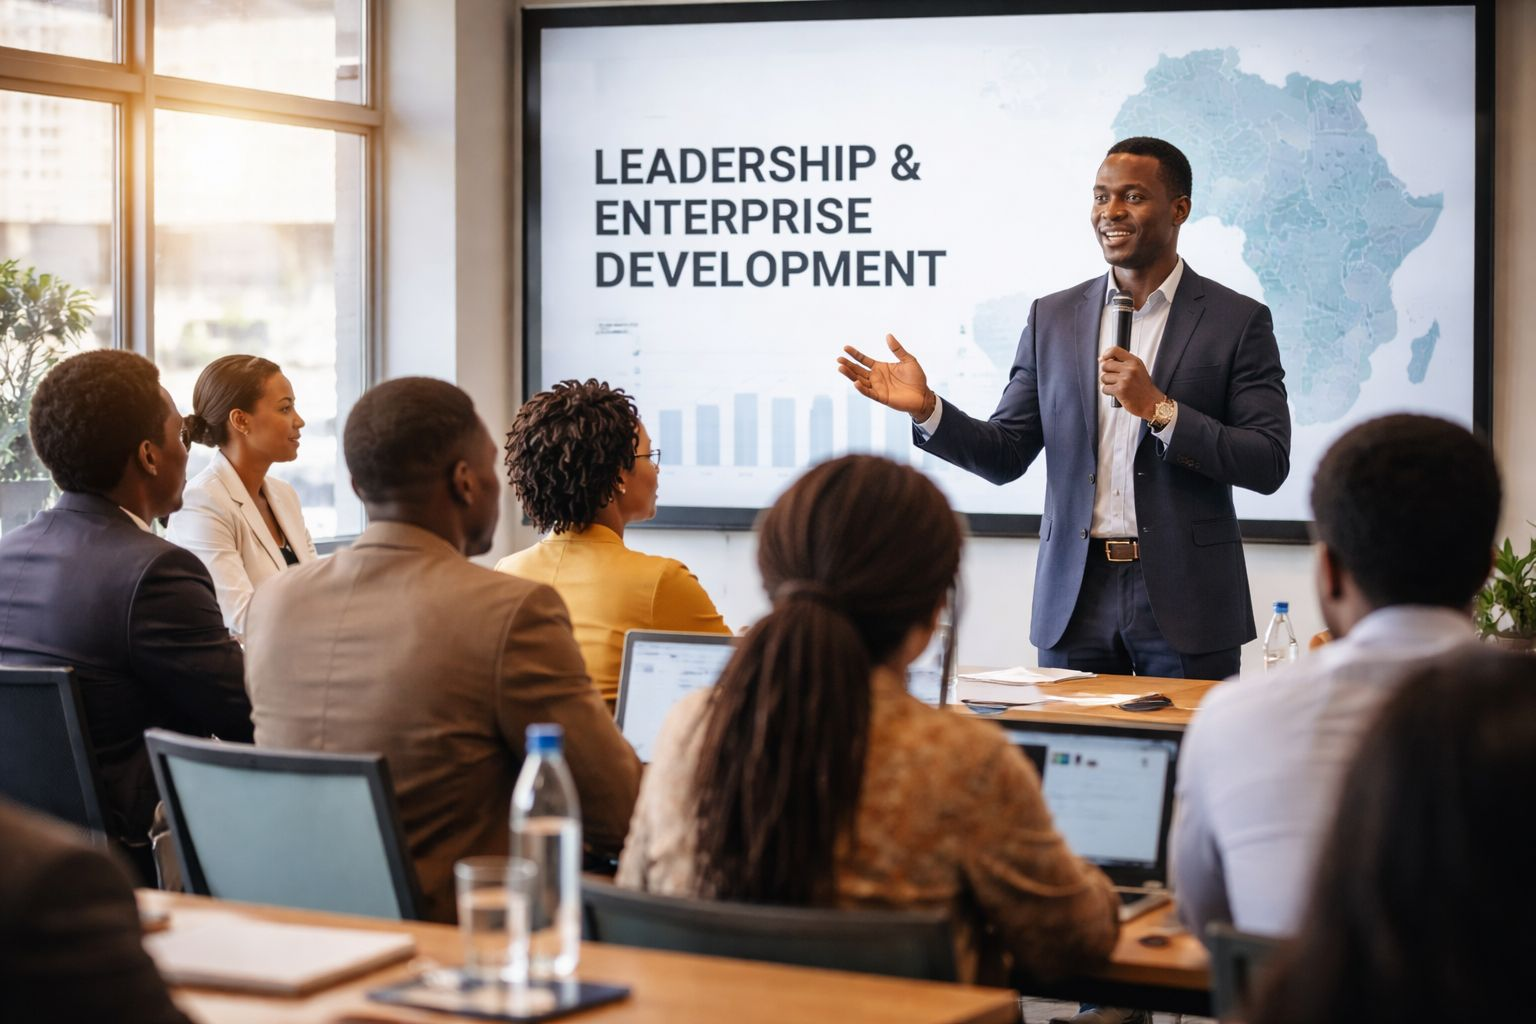
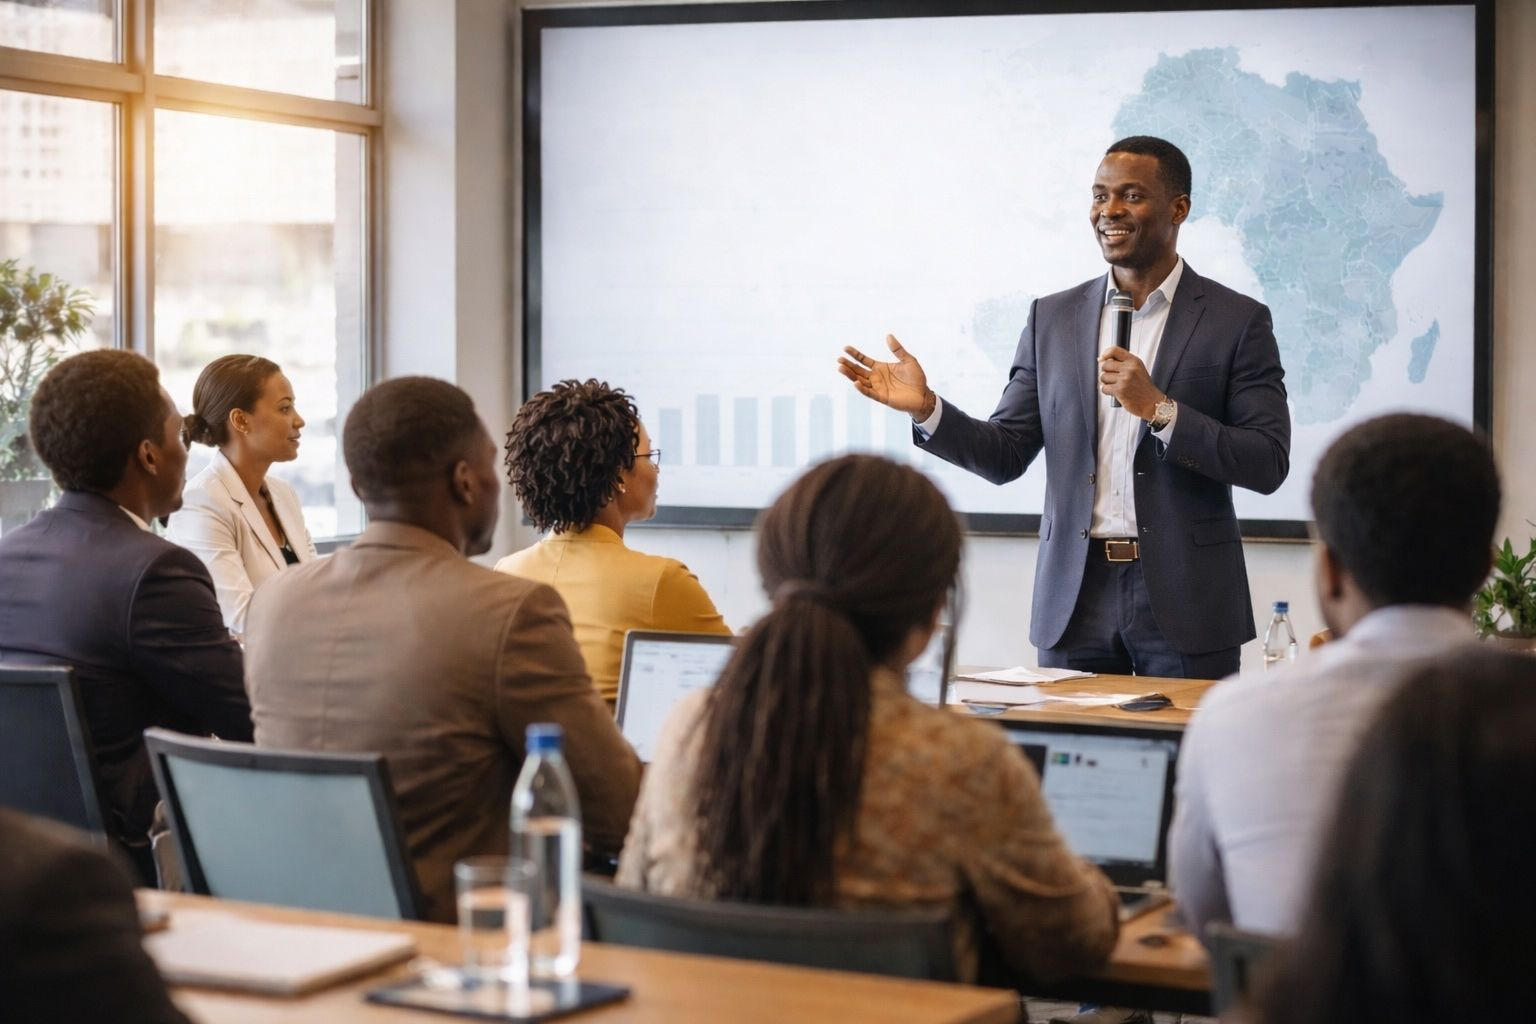
change the strategic picture and leadership

diff --git a/src/components/Hero.tsx b/src/components/Hero.tsx
@@ -9,9 +9,9 @@ export default function Hero() {
     <section
       id='hero'
       // overflow-x-clip is the strongest way to prevent horizontal scrolling on mobile
-      className='relative min-h-screen w-full flex items-center  text-white bg-transparent pt-20 pb-10 border-green-400'>
+      className='relative min-h-screen w-full flex items-center  text-white bg-transparent pt-20 pb-10 '>
       {/* --- OVERLAYS --- */}
-      <div className='absolute inset-0 z-10 bg-black/30 pointer-events-none border-green-400' />
+      <div className='absolute inset-0 z-10 bg-black/30 pointer-events-none ' />
 
       {/* --- MAIN CONTENT CONTAINER --- */}
       <div className='relative z-20 w-full max-w-7xl mx-auto px-6 md:px-12 flex flex-col md:flex-row items-center gap-10 lg:gap-24'>
@@ -21,12 +21,12 @@ export default function Hero() {
             initial={{ y: -30, opacity: 0 }}
             animate={{ y: 0, opacity: 1 }}
             transition={{ duration: 1.2 }}>
-            <span className='text-[#DFFF8F] font-mono text-xs md:text-sm tracking-[0.3em] uppercase mb-4 block max-lg:pt-5'>
+            <span className='text-amber-300 font-mono text-xs md:text-sm tracking-[0.3em] uppercase mb-4 block max-lg:pt-5'>
               Kingdom Institutional Platform
             </span>
             <h1 className='text-3xl sm:text-3xl lg:text-5xl font-serif font-bold mb-3 leading-[1.1] tracking-tight mx-auto md:mx-0'>
               Connecting Global Capital, Leadership and Strategic Development{" "}
-              <span className='text-[#DFFF8F]'>Across Africa</span>
+              <span className='text-amber-300'>Across Africa</span>
             </h1>
           </motion.div>
 
@@ -46,7 +46,7 @@ export default function Hero() {
             transition={{ duration: 1, delay: 0.6 }}
             className='flex flex-col items-center md:items-start gap-4'>
             <a
-              className='w-full sm:w-auto px-8 md:px-10 py-5 bg-[#DFFF8F] text-black font-bold rounded-full shadow-[0_10px_30px_rgba(223,255,143,0.3)] hover:scale-105 transition-transform duration-300 text-base md:text-lg flex items-center justify-center gap-3'
+              className='w-full sm:w-auto px-8 md:px-10 py-5 bg-amber-text-amber-300 text-black font-bold rounded-full bg-amber-300 shadow-[0_10px_30px_rgba(223,255,143,0.3)] hover:scale-105 transition-transform duration-300 text-base md:text-lg flex items-center justify-center gap-3'
               href='https://docs.google.com/forms/d/e/1FAIpQLSe7bvEJLfT6TmwdrKsR-he5ngOM_Uxd9iJkgvGmf6aQCvqeLg/viewform'
               target='__blank'>
               Request Private Access
@@ -65,8 +65,8 @@ export default function Hero() {
               </svg>
             </a>
             <p className='text-[10px] uppercase tracking-[0.2em] text-gray-300 max-w-xs leading-relaxed'>
-              Opportunities are shared privately with qualified partners
-              following application review.
+              Strategic opportunities are shared privately with qualified
+              investors following application review.
             </p>
           </motion.div>
         </div>

diff --git a/src/components/Navbar.tsx b/src/components/Navbar.tsx
@@ -41,7 +41,7 @@ export default function Navbar() {
           {/* Logo */}
           <Link href='/' className='flex items-center gap-2 group'>
             <span className='text-xl md:text-2xl font-serif font-bold tracking-tighter text-white'>
-              CHAYIL <span className='text-[#DFFF8F]'>GLOBAL</span>
+              CHAYIL <span className='text-amber-300'>GLOBAL</span>
             </span>
           </Link>
 